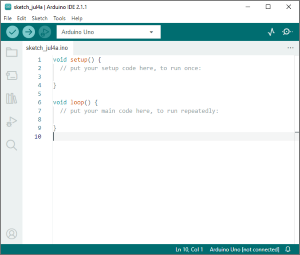
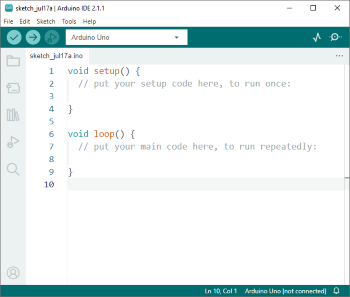
refactor: change arduino code section images to better accomdate different screen sizes

diff --git a/pages/arduino.html b/pages/arduino.html
@@ -11,7 +11,11 @@
           media="(max-width: 540px)"
           srcset="images/WindowsArduinoIDENewFile-mobile-350w.png"
         />
-        <source media="(min-width: 541px)" srcset="images/WindowsArduinoIDENewFile.png" />
+        <source
+          media="(max-width: 768px)"
+          srcset="images/WindowsArduinoIDENewFile-mobile-500.png"
+        />
+        <source media="(min-width: 769px)" srcset="images/WindowsArduinoIDENewFile.png" />
         <img src="images/WindowsArduinoIDENewFile.png" alt="Image of Arduino IDE">
       </picture>
     </div>
